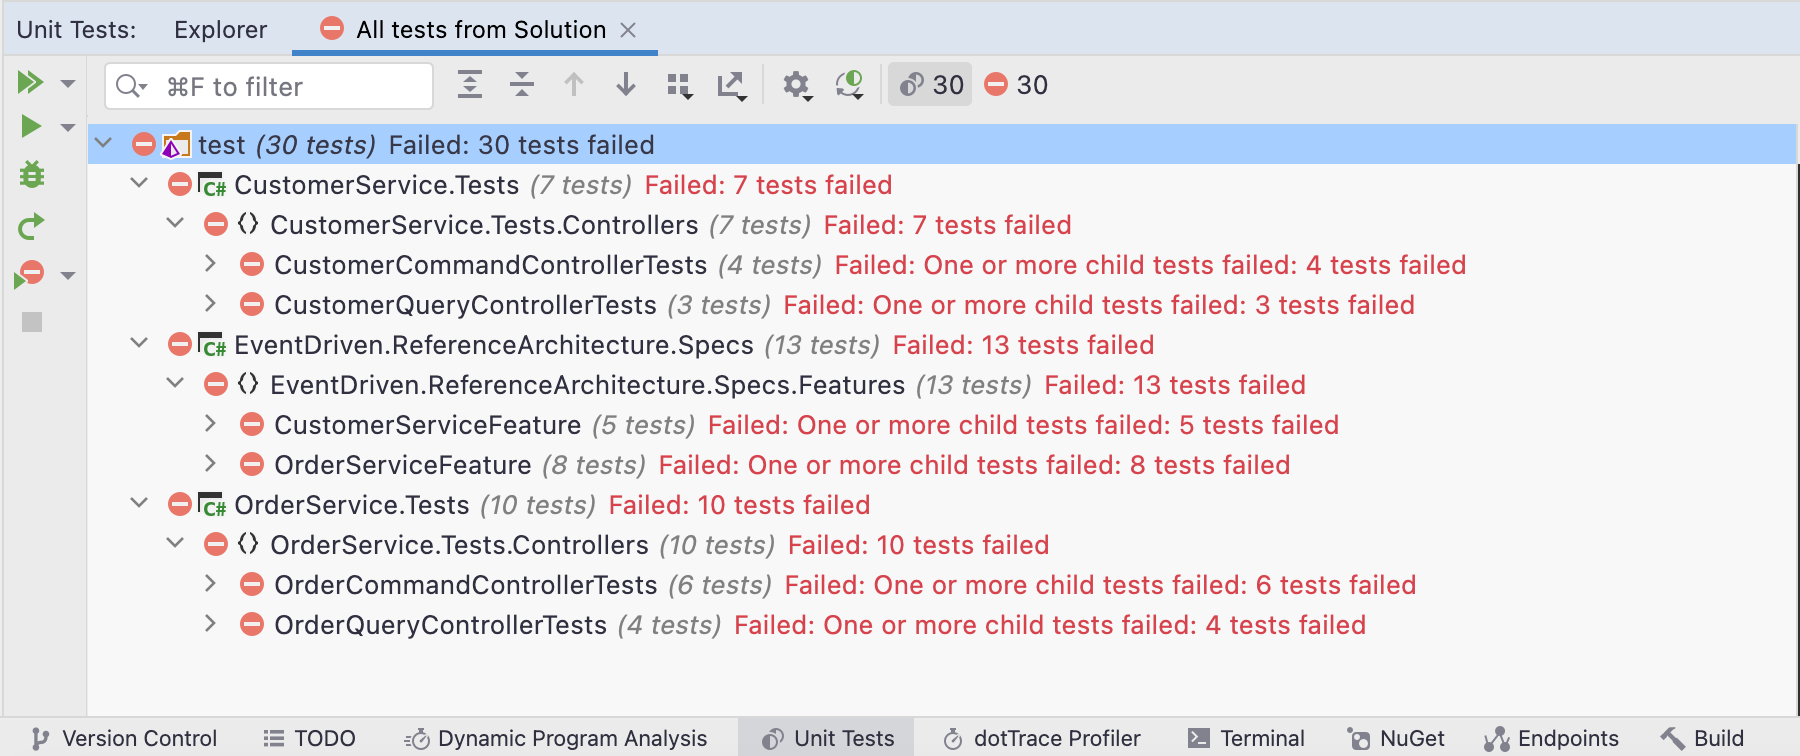
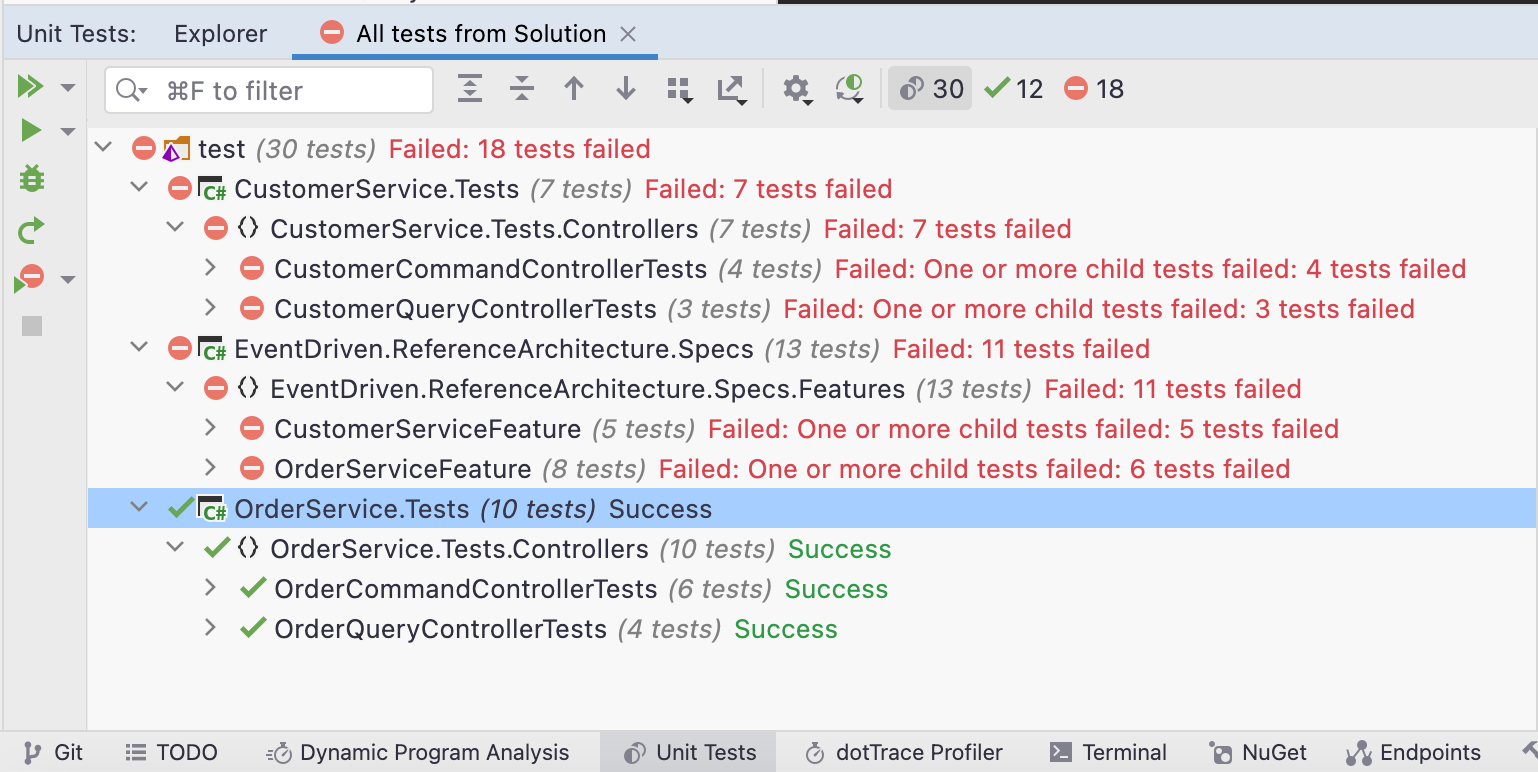
Update ReadMe

diff --git a/ReadMe.md b/ReadMe.md
@@ -40,8 +40,8 @@ DDD Exercise
      - *All the tests should fail.*
 3. Run the **CustomerService.Tests** unit tests.
    - *All the test should fail.*
-4. Run the **orderService.Tests** unit tests.
-   - *All the test should fail.*
+4. Run the **OrderService.Tests** unit tests.
+   - *All the test should pass.*
 ![unit-tests-fail-1](images/unit-tests-fail-1.png)
     - Stop Tye with Ctrl+C.
 5. Add `ICustomerRepository.cs` to **CustomerService/Repositories**.
@@ -147,7 +147,9 @@ DDD Exercise
         Assert.NotNull(noContentResult);
     }
     ```
-11. Flesh out unit tests in **CustomerQueryControllerTests**.
+11. Add a ctor to `CustomerQueryController`.
+    - Add parameters for `ICustomerRepository` and `IMapper`.
+12. Flesh out unit tests in **CustomerQueryControllerTests**.
     ```csharp
     public class CustomerQueryControllerTests
     {
@@ -208,9 +210,9 @@ DDD Exercise
         }
     }
     ```
-12. Run the unit tests for **CustomerService.Tests**.
+13. Run the unit tests for **CustomerService.Tests**.
     - The *tests should fail* with `NotImplementedException`.
-13. Flesh out `CustomerCommandController` in **CustomerService**.
+14. Flesh out `CustomerCommandController` in **CustomerService**.
     - Add a ctor that accepts `ICustomerRepository` and `IMapper`.
     ```csharp
     private readonly ICustomerRepository _repository;
@@ -265,7 +267,7 @@ DDD Exercise
         return NoContent();
     }
     ```
-14. Flesh out `CustomerQueryController` in **CustomerService**.
+15. Flesh out `CustomerQueryController` in **CustomerService**.
     ```csharp
     public class CustomerQueryController : ControllerBase
     {
@@ -301,9 +303,9 @@ DDD Exercise
         }
     }
     ```
-15. Run the unit tests for **CustomerService.Tests**.
+16. Run the unit tests for **CustomerService.Tests**.
     - The tests should now pass.
-16. Add a `CustomerRepository` class to **CustomerService**.
+17. Add a `CustomerRepository` class to **CustomerService**.
     - Add a `[ExcludeFromCodeCoverage]` attribute to the class.
     > **Note**: Repositories are best covered by **integration tests**, *not unit tests*, because the underlying provider cannot be adequately mocked.
     - Extend `DocumentRepository<Customer>` and implement `ICustomerRepository`.
@@ -348,13 +350,14 @@ DDD Exercise
         return await FindOneAndReplaceAsync(e => e.Id == entity.Id, entity);
     }
     ```
-17. Update code in **EventDriven.ReferenceArchitecture.Specs** so that the acceptance tests pass.
+18. Update code in **EventDriven.ReferenceArchitecture.Specs** so that the acceptance tests pass.
     - Look up each `TODO` item and uncomment code.
       - These should be in the `Hooks` and `StepDefinitions` classes.
+![show-todo](images/show-todo.png)
     - Execute `tye run` from the terminal.
-    - Run the acceptance tests. *The acceptance tests should now pass.*
+    - Run the acceptance tests. *The CustomerServiceFeature acceptance tests will fail.*
     - Stop Tye with Ctrl+C.
-18. Run **CustomerService** directly from the IDE.
+19. Run **CustomerService** directly from the IDE.
     - Use Swagger to execute the GET action.
     - You should get a *dependency injection error*.
     - Resolve the error by updating `Program` to add database settings.
@@ -367,3 +370,6 @@ DDD Exercise
     - The `AddMongoDbSettings` method maps a class that implements `IMongoDbSettings` to a section in appsettings.json with a name that matches the class name.
       - For example, the `CustomerDatabaseSettings` class has properties which match the `CustomerDatabaseSettings` section in appsettings.json.
     - Rerun **CustomerService**. *The error should go away.*
+    - Execute `tye run` from the terminal.
+    - Run the acceptance tests. *The CustomerServiceFeature acceptance tests will pass.*
+    - Stop Tye with Ctrl+C.
